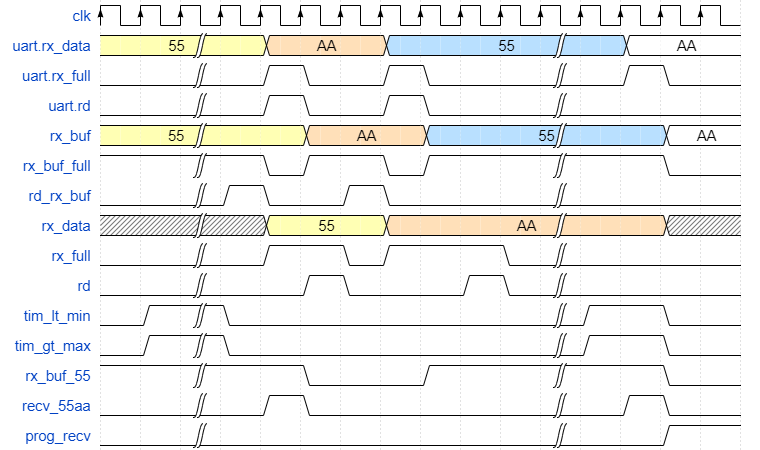
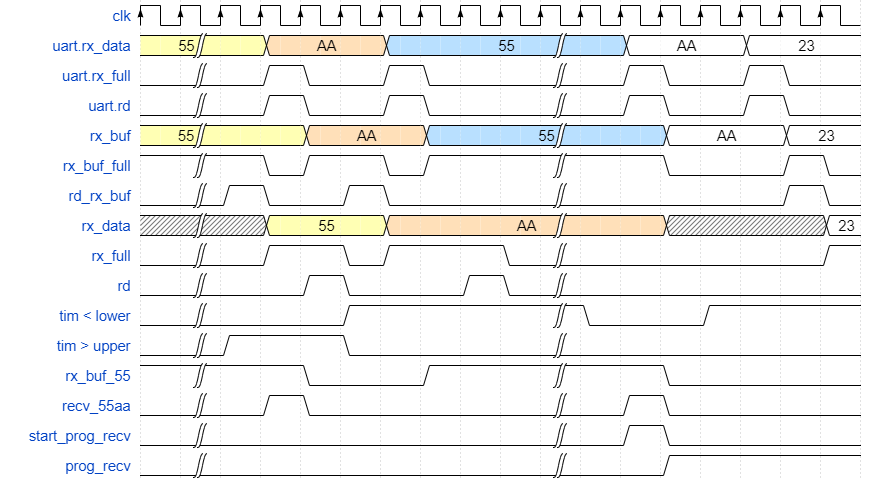
uart_muxのタイミング設計を修正

diff --git a/doc/signal-timing-design/uart-mux-timing_delimiter.py b/doc/signal-timing-design/uart-mux-timing_delimiter.py
@@ -1,19 +1,20 @@
 {
   signal: [
-    {name: 'clk',          wave: 'PPPPPPPPPPPPPPPP'},
-    {name: 'uart.rx_data', wave: '3.|.4..5...|.2..', data: ['55', 'AA', '55', 'AA']},
-    {name: 'uart.rx_full', wave: '0.|.10.10..|.10.'},
-    {name: 'uart.rd',      wave: '0.|.10.10..|....'},
-    {name: 'rx_buf',       wave: '3.|..4..5..|..2.', data: ['55          ', 'AA', '55', 'AA']},
-    {name: 'rx_buf_full',  wave: '1.|.01.01..|..0.'},
-    {name: 'rd_rx_buf',    wave: '0.|10.10...|....'},
-    {name: 'rx_data',      wave: 'x.|.3..4...|..x.', data: ['55', 'AA']},
-    {name: 'rx_full',      wave: '0.|.1.01..0|....'},
-    {name: 'rd',           wave: '0.|..10..10|....'},
-    {name: 'tim_lt_min',   wave: '01|0.......|1.0.'},
-    {name: 'tim_gt_max',   wave: '01|0.......|1.0.'},
-    {name: 'rx_buf_55',    wave: '1.|..0..1..|..0.'},
-    {name: 'recv_55aa',    wave: '0.|.10.....|.10.'},
-    {name: 'prog_recv',    wave: '0.|........|..1.'},
+    {name: 'clk',             wave: 'PPPPPPPPPPPPPPPPPP'},
+    {name: 'uart.rx_data',    wave: '3|.4..5...|.2..2..', data: ['55     ', 'AA', '55', 'AA', '23']},
+    {name: 'uart.rx_full',    wave: '0|.10.10..|.10.10.'},
+    {name: 'uart.rd',         wave: '0|.10.10..|.10.10.'},
+    {name: 'rx_buf',          wave: '3|..4..5..|..2..2.', data: ['55               ', 'AA', '55', 'AA', '23']},
+    {name: 'rx_buf_full',     wave: '1|.01.01..|..0..10'},
+    {name: 'rd_rx_buf',       wave: '0|10.10...|.....10'},
+    {name: 'rx_data',         wave: 'x|.3..4...|..x...2', data: ['55', 'AA', '23']},
+    {name: 'rx_full',         wave: '0|.1.01..0|......1'},
+    {name: 'rd',              wave: '0|..10..10|.......'},
+    {name: 'tim < lower',     wave: '0|...1....|0..1...'},
+    {name: 'tim > upper',     wave: '0|1..0....|.......'},
+    {name: 'rx_buf_55',       wave: '1|..0..1..|..0....'},
+    {name: 'recv_55aa',       wave: '0|.10.....|.10....'},
+    {name: 'start_prog_recv', wave: '0|........|.10....'},
+    {name: 'prog_recv',       wave: '0|........|..1....'},
   ],
 }
